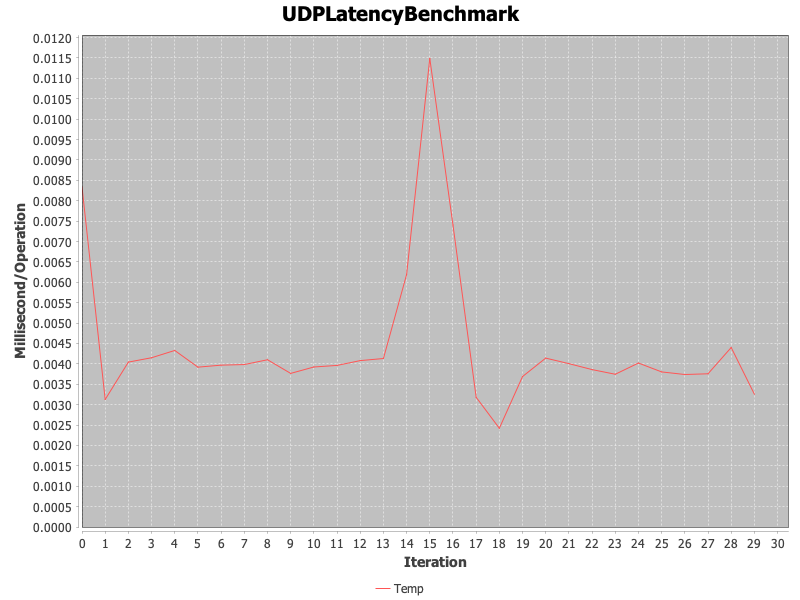
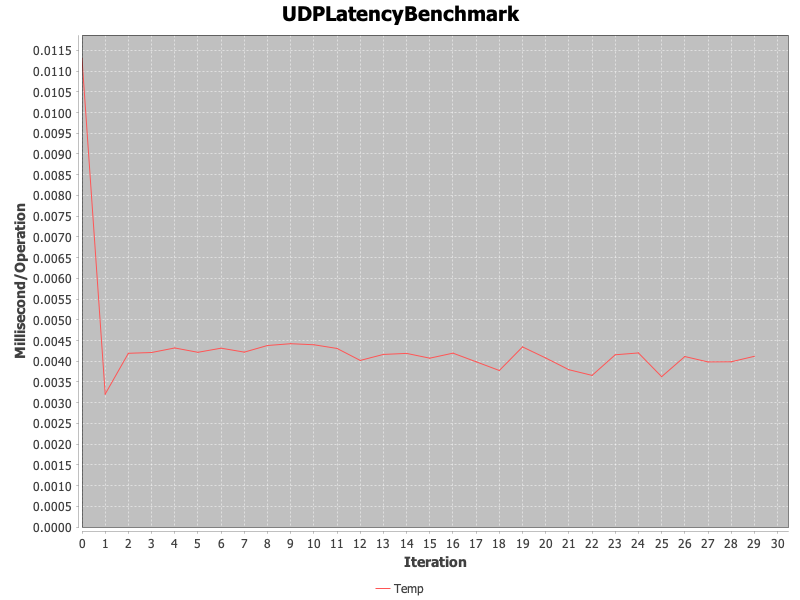
Packet Loss Issue Solved in UDP2
If client is not getting any information back, then continue to the next iteration!

The server doesn't have to do anything. It just has to wait for the new information to be sent!

diff --git a/src/main/java/org/network/Client.java b/src/main/java/org/network/Client.java
@@ -245,33 +245,39 @@ public class Client {
     static void throughputUDP() {
         ArrayList<Double> udpThroughputData = new ArrayList<>();
         try (DatagramSocket socket = new DatagramSocket(26881)) {
+            socket.setSoTimeout(30000);
             InetAddress address = InetAddress.getByName(host);
 
             for (int numberOfMessages = 0; numberOfMessages < Helpers.numberOfMessages; numberOfMessages++) {
                 long sendTime = System.nanoTime();
-            for (int i = 0; i < encryptedPackets.size(); i++) {
-                DatagramPacket packet = new DatagramPacket(encryptedPackets.get(i), encryptedPackets.get(i).length, address, 26882);
-                socket.send(packet);
+                for (int i = 0; i < encryptedPackets.size(); i++) {
+                    try {
+                        DatagramPacket packet = new DatagramPacket(encryptedPackets.get(i), encryptedPackets.get(i).length, address, 26882);
+                        socket.send(packet);
 
-                // Receive the response from the server
-                byte[] buffer = new byte[Helpers.msgSize];
-                DatagramPacket receivePacket = new DatagramPacket(buffer, buffer.length);
-                socket.receive(receivePacket);
+                        // Receive the response from the server
+                        byte[] buffer = new byte[Helpers.msgSize];
+                        DatagramPacket receivePacket = new DatagramPacket(buffer, buffer.length);
+                        socket.receive(receivePacket);
 
-                byte[] data = receivePacket.getData();
-                System.out.println(new String(Helpers.xorEncode(data, Helpers.key)));
+                        byte[] data = receivePacket.getData();
+                        String decoded = new String(Helpers.xorEncode(data, Helpers.key));
+                    } catch (SocketTimeoutException e) {
+                        // Handle timeout (packet lost)
+                        System.err.println("Packet lost or no response from server, skipping to next message...");
+                        continue;
+                    } catch (IOException e) {
+                        throw new RuntimeException(e);
+                    }
+                }
+                long receiveTime = System.nanoTime();
+                double diffInSeconds = (receiveTime - sendTime) * 1e-9;
+                udpThroughputData.add(Helpers.iterations / diffInSeconds);
+
+                System.out.println("All " + Helpers.msgSize + " packets sent and received in " + diffInSeconds +
+                        " seconds with a throughput of " + Helpers.iterations / diffInSeconds + " op/s");
             }
-            long receiveTime = System.nanoTime();
-            double diffInSeconds = (receiveTime - sendTime) * 1e-9;
-            udpThroughputData.add(Helpers.iterations / diffInSeconds);
-
-            System.out.println("All " + Helpers.msgSize + " packets sent and received in " + diffInSeconds +
-                    " seconds with a throughput of " + Helpers.iterations / diffInSeconds + " op/s");
-            }
-
         } catch (SocketException | UnknownHostException e) {
-            throw new RuntimeException(e);
-        } catch (IOException e) {
             throw new RuntimeException(e);
         } finally {
             Graphing.graph(udpThroughputData, "UDPThroughputBenchmark");
@@ -284,6 +290,7 @@ public class Client {
 
     /**
      * DEBUG
+     *
      * @param encryptedPackets - print encrypted packets in terminal in readable format
      */
     static void printPackets(ArrayList<byte[]> encryptedPackets) {

diff --git a/src/main/java/org/network/UDPServer2.java b/src/main/java/org/network/UDPServer2.java
@@ -4,14 +4,19 @@ import java.io.EOFException;
 import java.io.IOException;
 import java.net.DatagramPacket;
 import java.net.DatagramSocket;
+import java.net.SocketException;
+import java.net.SocketTimeoutException;
+import java.util.concurrent.TimeoutException;
 
-public class UDPServer {
-    static int numHits = 0;
-
+public class UDPServer2 {
     public static void main(String[] args) {
         int maxBufferSize = 512;
         try (DatagramSocket serverSocket = new DatagramSocket(26882)) {
+
+            // if i can't continue, kill the current data for now.
+            serverSocket.setSoTimeout(30000);
             System.out.println("Datagram listening...?");
+
             for (; ; ) {
                 try {
                     DatagramPacket packet = new DatagramPacket(new byte[maxBufferSize], maxBufferSize);
@@ -20,31 +25,24 @@ public class UDPServer {
                     maxBufferSize = packet.getLength();
                     byte[] data = packet.getData();
                     String message = new String(Helpers.xorEncode(data, Helpers.key));
-                    System.out.println("Decoded byte array: " + message);
-                    if (message.length() > 8 && message.substring(message.length() - 8).equals(Client.agreement)) {
-                        numHits++;
-                    }
 
                     DatagramPacket responsePacket = new DatagramPacket(
                             data, maxBufferSize, packet.getAddress(), packet.getPort());
                     serverSocket.send(responsePacket);
+                } catch (SocketTimeoutException e) {
+                    System.out.println("Socket timeout, continuing to listen...");
                 } catch (EOFException e) {
                     System.out.println("Client disconnected.");
                     break;
                 } catch (IOException e) {
                     System.err.println("Error reading from client: " + e.getMessage());
                     break;
-                } finally {
-                    System.out.println("[ONLY FOR THROUGHPUT] 8-bit key verification hits: " + numHits);
                 }
             }
-            serverSocket.close();
             throw new IOException();
         } catch (IOException e) {
             System.out.println("Caught IOException: " + e);
             throw new RuntimeException(e);
-        } finally {
-            System.out.println("[ONLY FOR THROUGHPUT] 8-bit key verification hits: " + numHits);
         }
     }
 }
